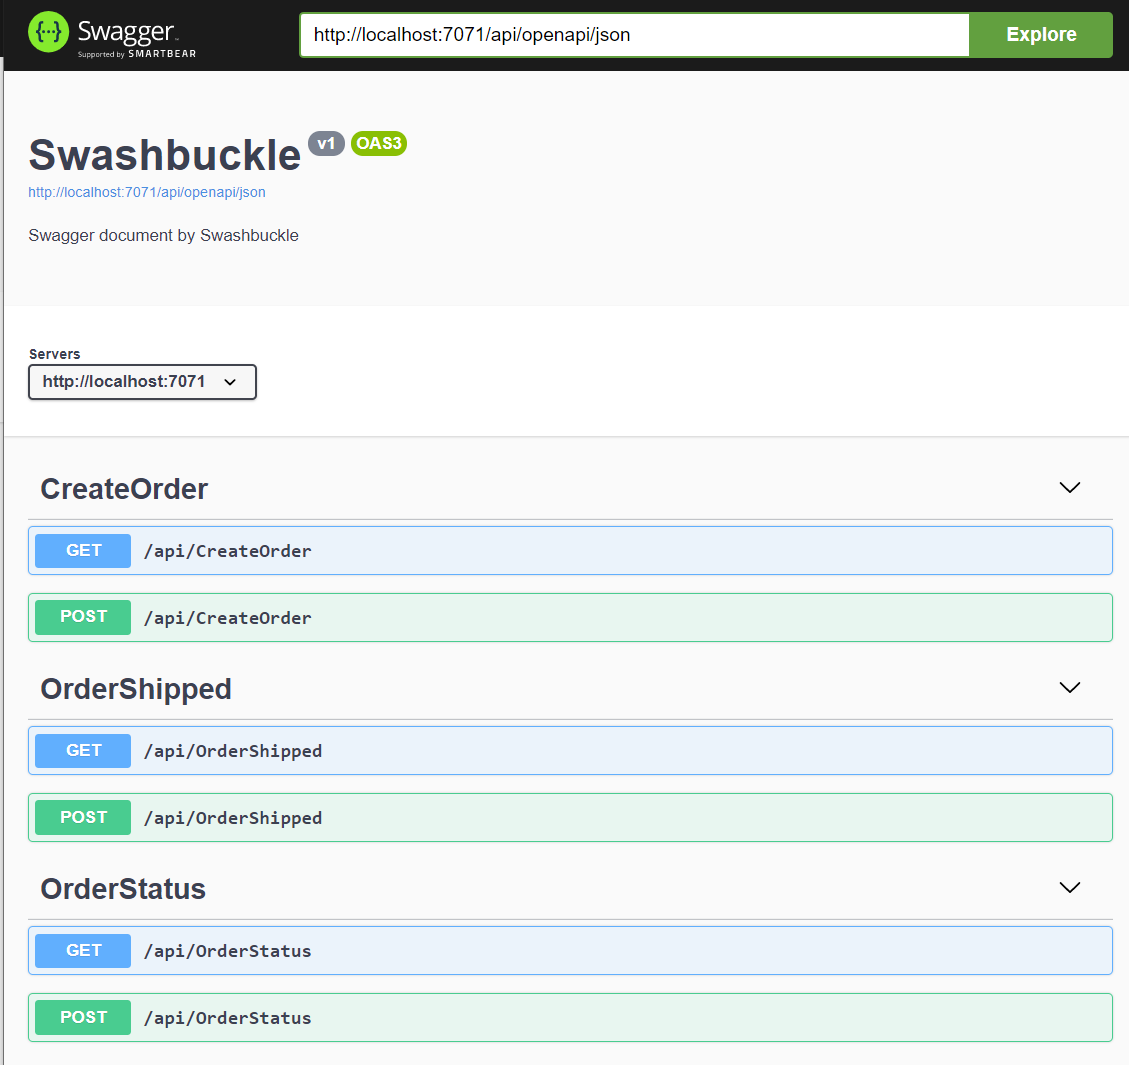
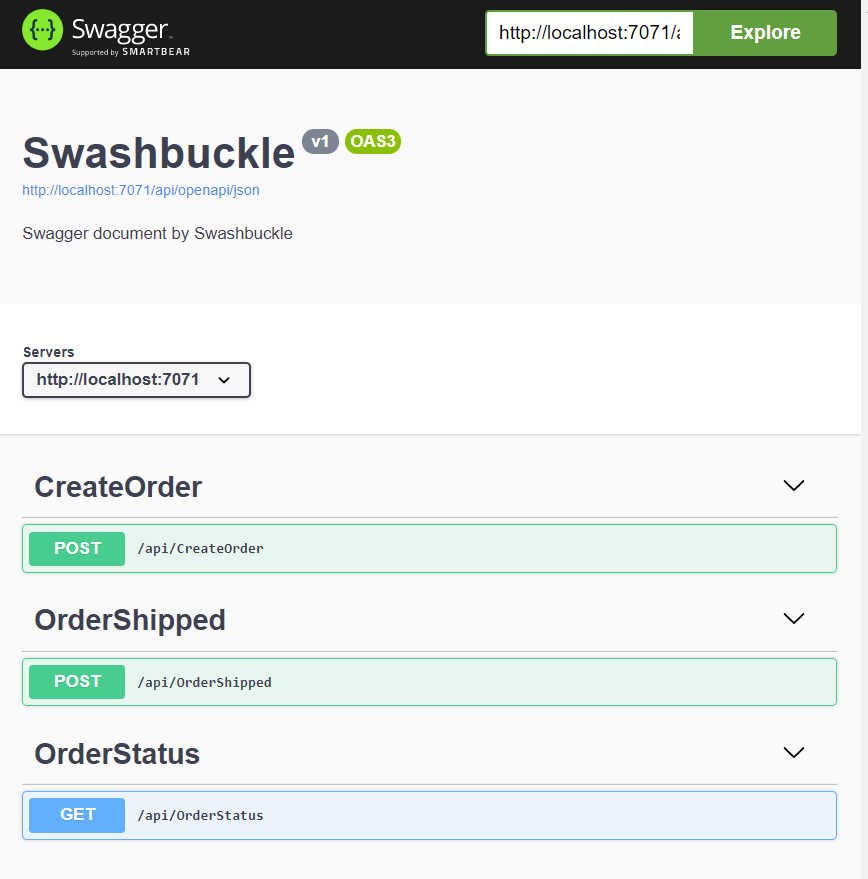
minor article updates

diff --git a/Article 1.md b/Article 1.md
@@ -33,7 +33,7 @@ To create the app, we will start with the [Azure Functions Core Tools](https://d
 {
   "sdk": {
     // must be the exact dotnet 3.x version string
-    "version": "3.1.411" 
+    "version": "3.1.411"
   }
 }
 ```
@@ -54,13 +54,13 @@ To Learn more about Azure Functions, visit the [Azure Functions Documentation](h
 
 ## Add Functions
 
-*NOTE: We're using Anonymous Authorization because we will eventually be using [Azure API Managment](https://azure.microsoft.com/en-us/services/api-management/) and firewall rules to secure the functions.*
+_NOTE: We're using Anonymous Authorization because we will eventually be using [Azure API Managment](https://azure.microsoft.com/en-us/services/api-management/) and firewall rules to secure the functions._
 
 ### Shipping Division API
 
-The Shopping division needs to call HTTP APIs to make an order to the warehouse, so we will add a `CreateOrder` function that performs this action. 
+The Shopping division needs to call HTTP APIs to make an order to the warehouse, so we will add a `CreateOrder` function that performs this action.
 
-*(This can be done interactively by just running `func new` and following prompts, but using the command line parameters is more concise)*
+_(This can be done interactively by just running `func new` and following prompts, but using the command line parameters is more concise)_
 
 ```powershell
 C:\dev\Bmazon> func new --template HttpTrigger --name CreateOrder --authlevel Anonymous
@@ -69,7 +69,7 @@ Use the up/down arrow keys to select a template:Function name: CreateOrder
 The function "CreateOrder" was created successfully from the "HTTPTrigger" template.
 ```
 
-*Strangely, it outputs a prompt to select the template even when you have passed in the selection as a parameter. You can ignore this.*
+_Strangely, it outputs a prompt to select the template even when you have passed in the selection as a parameter. You can ignore this._
 
 ### Warehouse Division API
 
@@ -93,6 +93,17 @@ C:\dev\Bmazon> func new --template HTTPTrigger --name OrderStatus --authlevel An
 Use the up/down arrow keys to select a template:Function name: OrderShipped
 
 The function "OrderStatus" was created successfully from the "HTTPTrigger" template.
+```
+
+### Choose GET or POST
+
+If you look at the code, you'll notice that, by default, the Functions were created supporting both `GET` and `POST`.
+
+We can fix that by changing the following code on each function by removing either `"get"` or `"post"` appropriately (Typically you will have the first 2 operations be `POST`s and the latter be `GET`)
+
+```csharp
+[HttpTrigger(AuthorizationLevel.Anonymous, "get", "post", Route = null)]
+HttpRequest req
 ```
 
 ### Organizing the Code
@@ -230,7 +241,7 @@ For detailed output, run func with --verbose flag.
 [2021-02-27T15:05:41.693Z] Host lock lease acquired by instance ID '000000000000000000000000016514FF'.
 ```
 
->*If you don't see that last line after a few seconds, you probably don't have the storage emulator running*
+> _If you don't see that last line after a few seconds, you probably don't have the storage emulator running_
 
 Notice the list of functions shown with the URLs next to them.
 
@@ -238,19 +249,9 @@ If you visit the [OpenApiUI URL](http://localhost:7071/api/openapi/ui), you will
 
 ![Swagger UI](./images/swagger-ui.png)
 
-You'll notice that, by default, the Functions were created supporting both `GET` and `POST`.
+You now have APIs that are documenting themselves!
 
-We can fix that by changing the following code on each function by removing either `"get"` or `"post"` appropriately (Typically you will have the first 2 operations be `POST`s and the latter be `GET`)
+## Next Steps
 
-```csharp
-[HttpTrigger(AuthorizationLevel.Anonymous, "get", "post", Route = null)]
-HttpRequest req
-```
-
-After you've updated the `get/post` settings, you now have APIs that are documenting themselves!
-
-One problem is that they are not documenting themselves *well*.
-
-In the [next article](./Article%202.md), I will show you how to make the documentation MUCH better.
-
-# TODO: Put a teaser/demonstration of how bad the existing docs are to make them want to read the next one?
+Now that you have self-documenting APIs, you may notice that the information in the Swagger UI is rather underwhelming.
+In part two of the series, I will show you how to make the documentation MUCH better.
